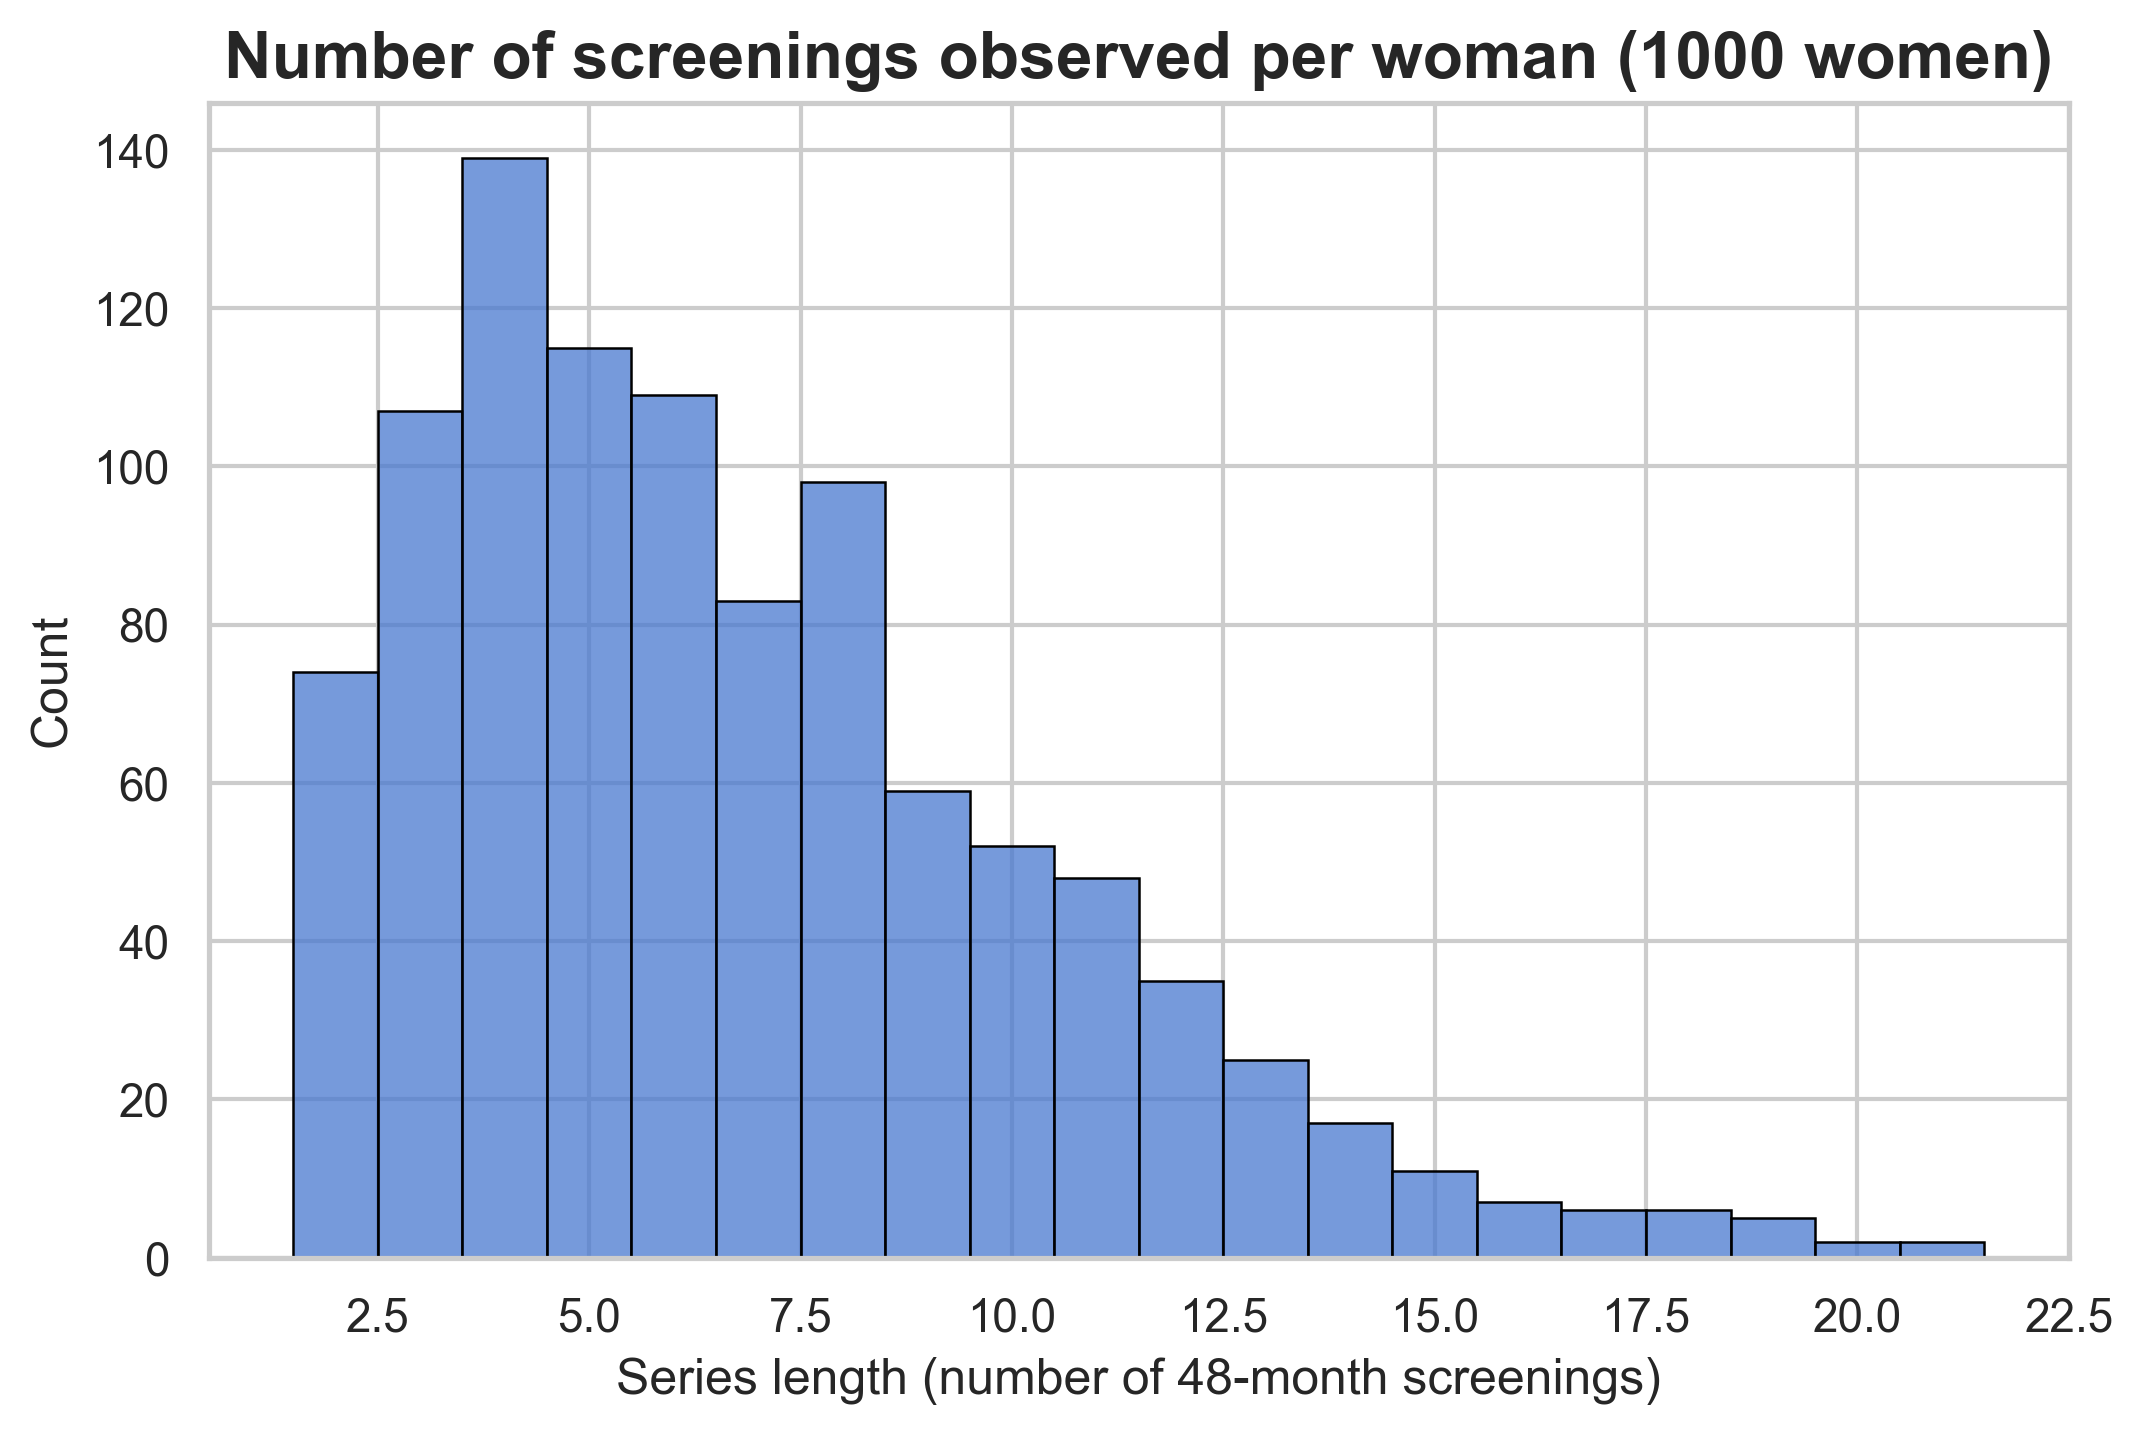
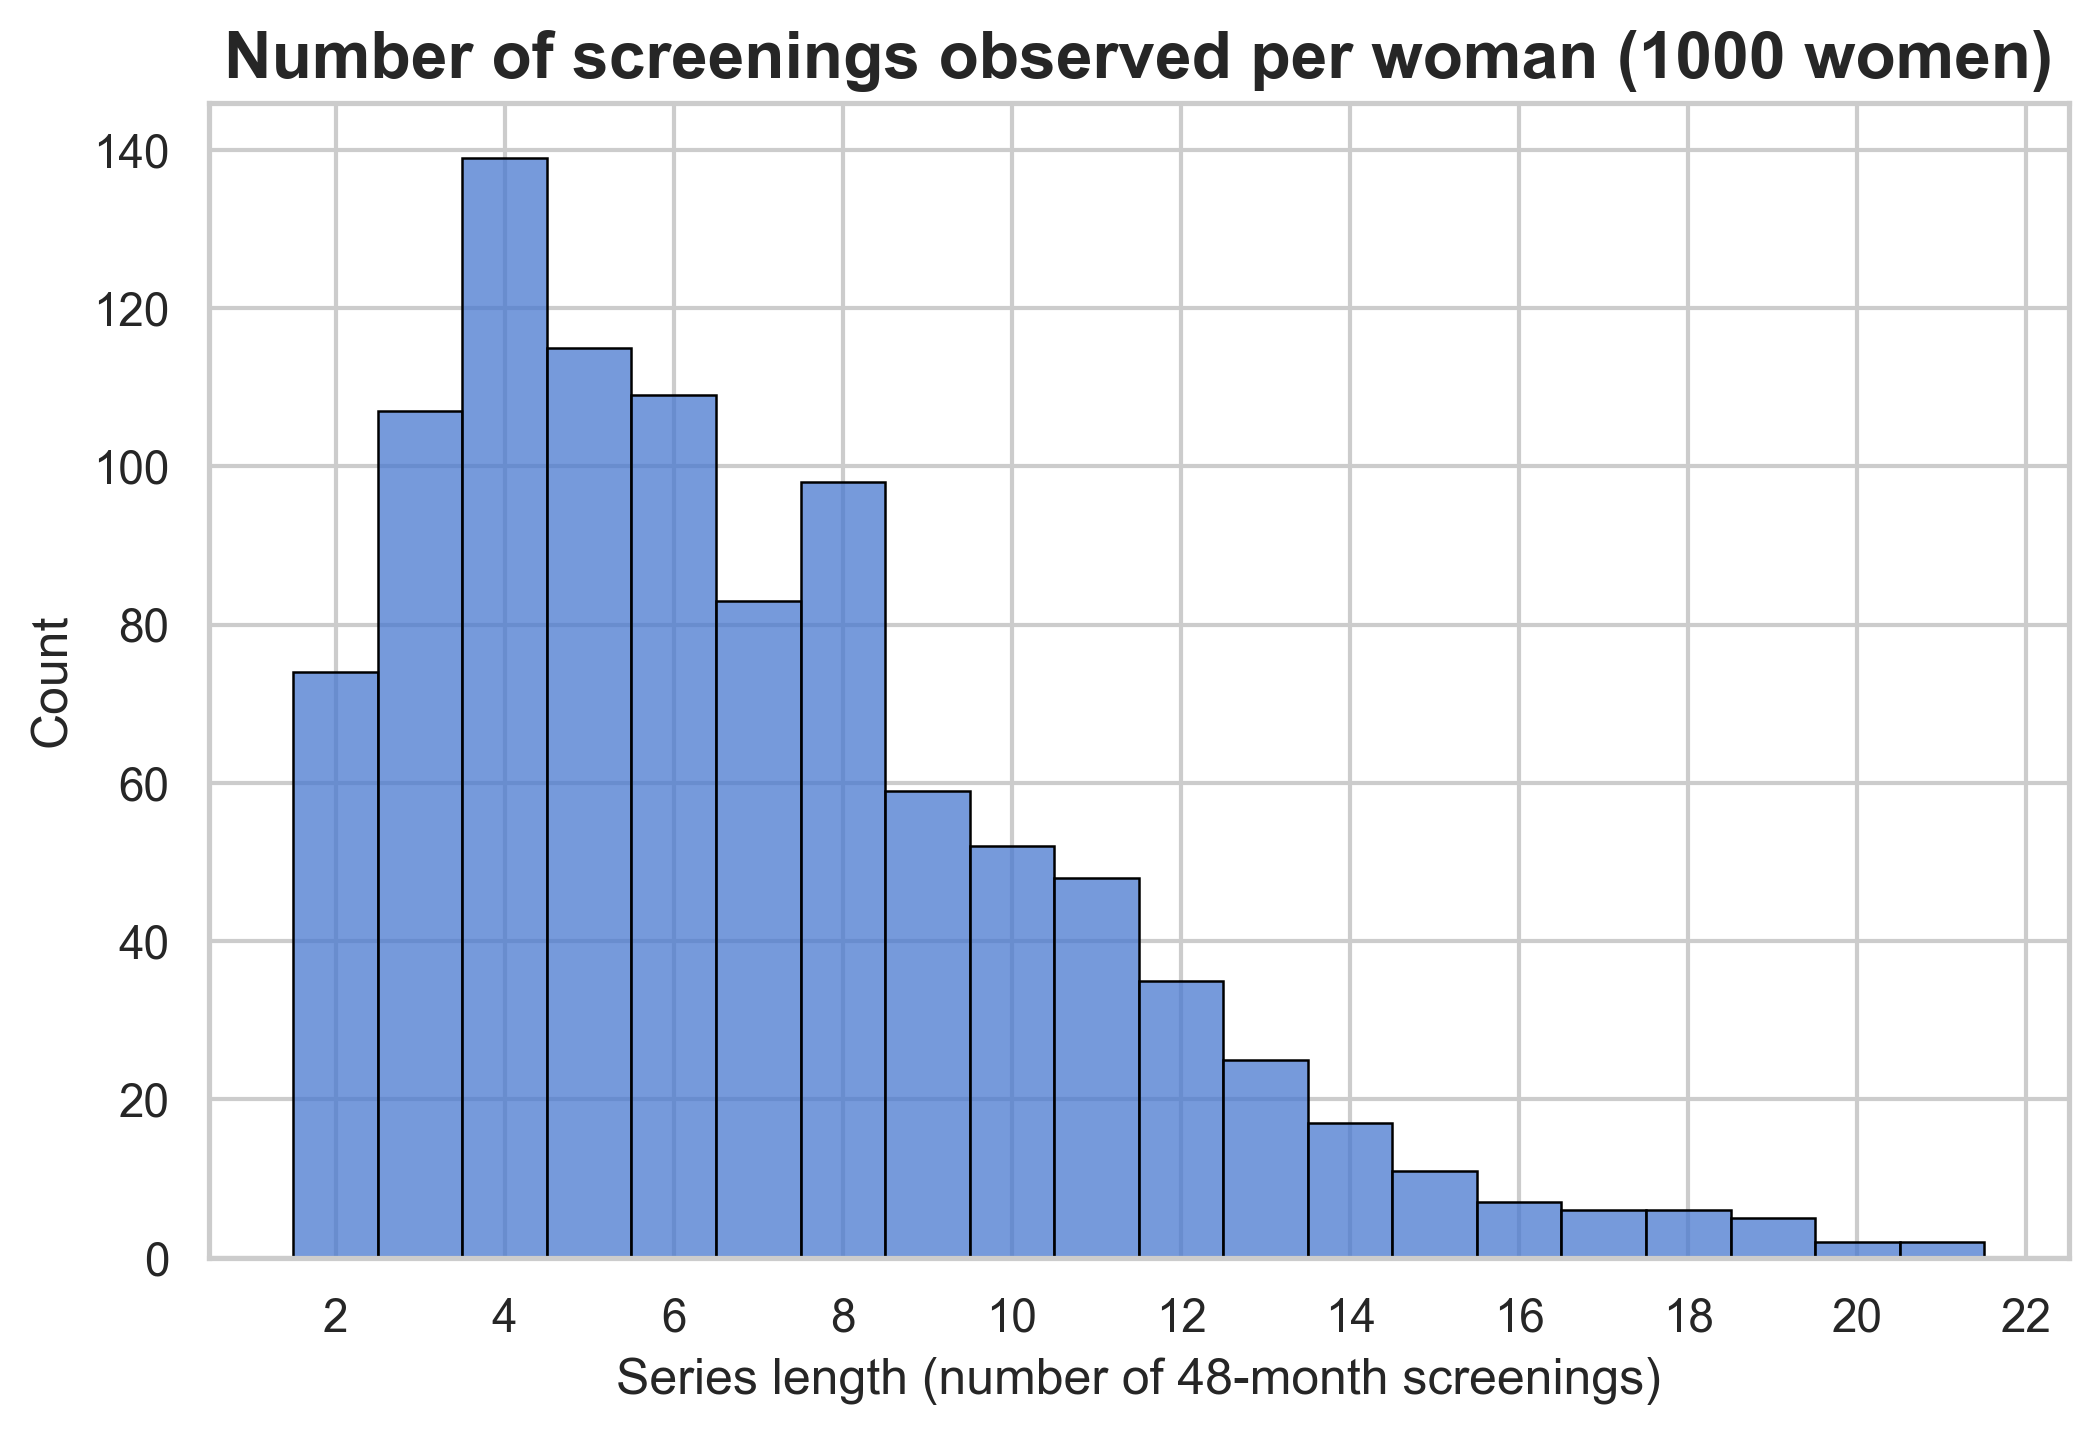
Better x-axis numbering on plot for task 12

diff --git a/project1/part3/task12.py b/project1/part3/task12.py
@@ -11,6 +11,7 @@ Run with:
     uv run python -m project1.part3.task12
 """
 import numpy as np
+from matplotlib.ticker import MultipleLocator
 
 from utils.logger import get_logger
 from utils.plotting import figure, histogram
@@ -106,3 +107,4 @@ if __name__ == "__main__":
             title="Number of screenings observed per woman (1000 women)",
             xlabel="Series length (number of 48-month screenings)",
         )
+        ax.xaxis.set_major_locator(MultipleLocator(2))
